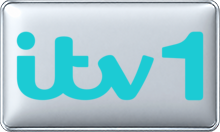
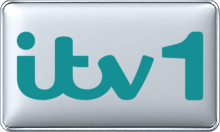
Repair eight BLACK/WHITE variants (batch 015)

Changed region(s): [[0.0545, 0.2727, 0.7091, 0.7576], [0.7364, 0.2424, 0.9273, 0.7576], [0.0545, 0.2424, 0.1636, 0.3939]]

diff --git a/reports/black-white-qc-2026-10-09/batch-015/checkpoint.md b/reports/black-white-qc-2026-10-09/batch-015/checkpoint.md
@@ -1,0 +1,9 @@
+# BLACK/WHITE QC batch 015
+
+- Remote branch HEAD before this batch push: `e2d8af1a75ca6bf8d178ad8be63ac7bdfecc098f`.
+- Inspected review sheets 026–029 (400 variants: 200 BLACK and 200 WHITE).
+- Repaired 8 high-confidence variants with localized in-memory masks, rendered through `tools/rebuild_master_catalog.py` using immutable MASTER templates. Every pre-edit output matched the pinned renderer exactly.
+- Exact repair paths, SHA-256 values, and changed-pixel counts are in `repair-manifest.csv`; visual side-by-side and mask QA is in `batch-015-before-after.jpg`.
+- All repaired outputs validate as RGBA PNG at 220×132. Alpha/geometry stayed unchanged; changes remain inside the selected source-component mask plus the 2px Lanczos resampling footprint. All transparent sources and MASTER templates are unchanged.
+- Last reviewed ID: 2900 (sheets 026–029, 400 variants); 8 outputs corrected.
+- Next review ID: 2901, assigned to batch-016 (sheets 030–035).

diff --git a/reports/black-white-qc-2026-10-09/batch-014/checkpoint.md b/reports/black-white-qc-2026-10-09/batch-014/checkpoint.md
@@ -9,3 +9,5 @@
 - Chromatic components on AXN Spin HD, RTL Club, Disney Channel and Paramount Network are validated unchanged. All final PNGs validate as RGBA, 220×132. Transparent sources and MASTER templates were not written.
 - Visual comparison: `batch-014-before-after.jpg`.
 - Completed through review ID 2500. The next contiguous review ID is 2501; sheets 026–029 were processed under batch-015.
+
+- Pushed batch commit: `e2d8af1a75ca6bf8d178ad8be63ac7bdfecc098f`.
